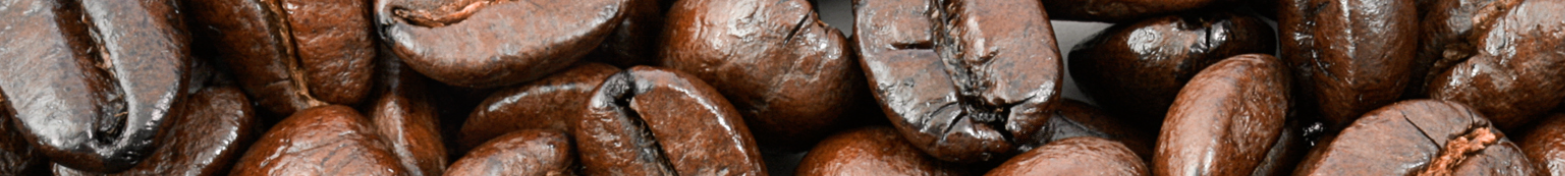
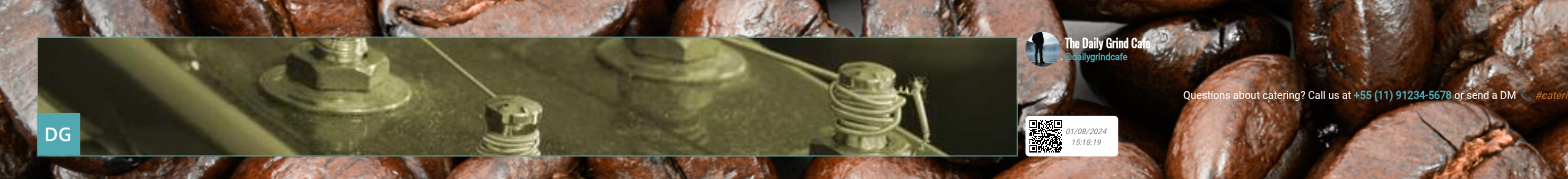
🎨 fix illegible dark text over the coffee-bean background
primary_color/user_full_name_color/text_color were near-black (#000/
#222), sitting directly on the dark, busy roasted-coffee-beans texture
background - made the caption and business name essentially invisible
in every screen format. Switched to white (the component's own
built-in default, which these values were needlessly overriding).

Also recaptures all 5 screen-format screenshots - the previous ones
(from this session's earlier automated pass) happened to be taken
mid-post-transition, showing just the bare background with no post
content at all.

diff --git a/templates/instagram-basic/public/dsplay-data.js b/templates/instagram-basic/public/dsplay-data.js
@@ -168,14 +168,14 @@ var dsplay_template = {
   bg_vertical: 'https://upload.wikimedia.org/wikipedia/commons/5/53/Roasted_Coffee_Beans_Texture.jpg',
   show_instagram_icon: 'true',
   show_info: 'true',
-  primary_color: '#000',
+  primary_color: '#fff',
   secondary_color: '#51a8b1',
   hashtag_color: '#C1732E',
   mention_color: '#51a8b1',
   phone_color: '#51a8b1',
-  user_full_name_color: '#000',
+  user_full_name_color: '#fff',
   user_screen_name_color: '#51a8b1',
-  text_color: '#222',
+  text_color: '#fff',
   border_color: '#51a8b1',
   overlay: 'https://ui-avatars.com/api/?name=Daily+Grind&size=256&background=51a8b1&color=fff&bold=true&format=png',
   overlay_position: 'bottom-left',
